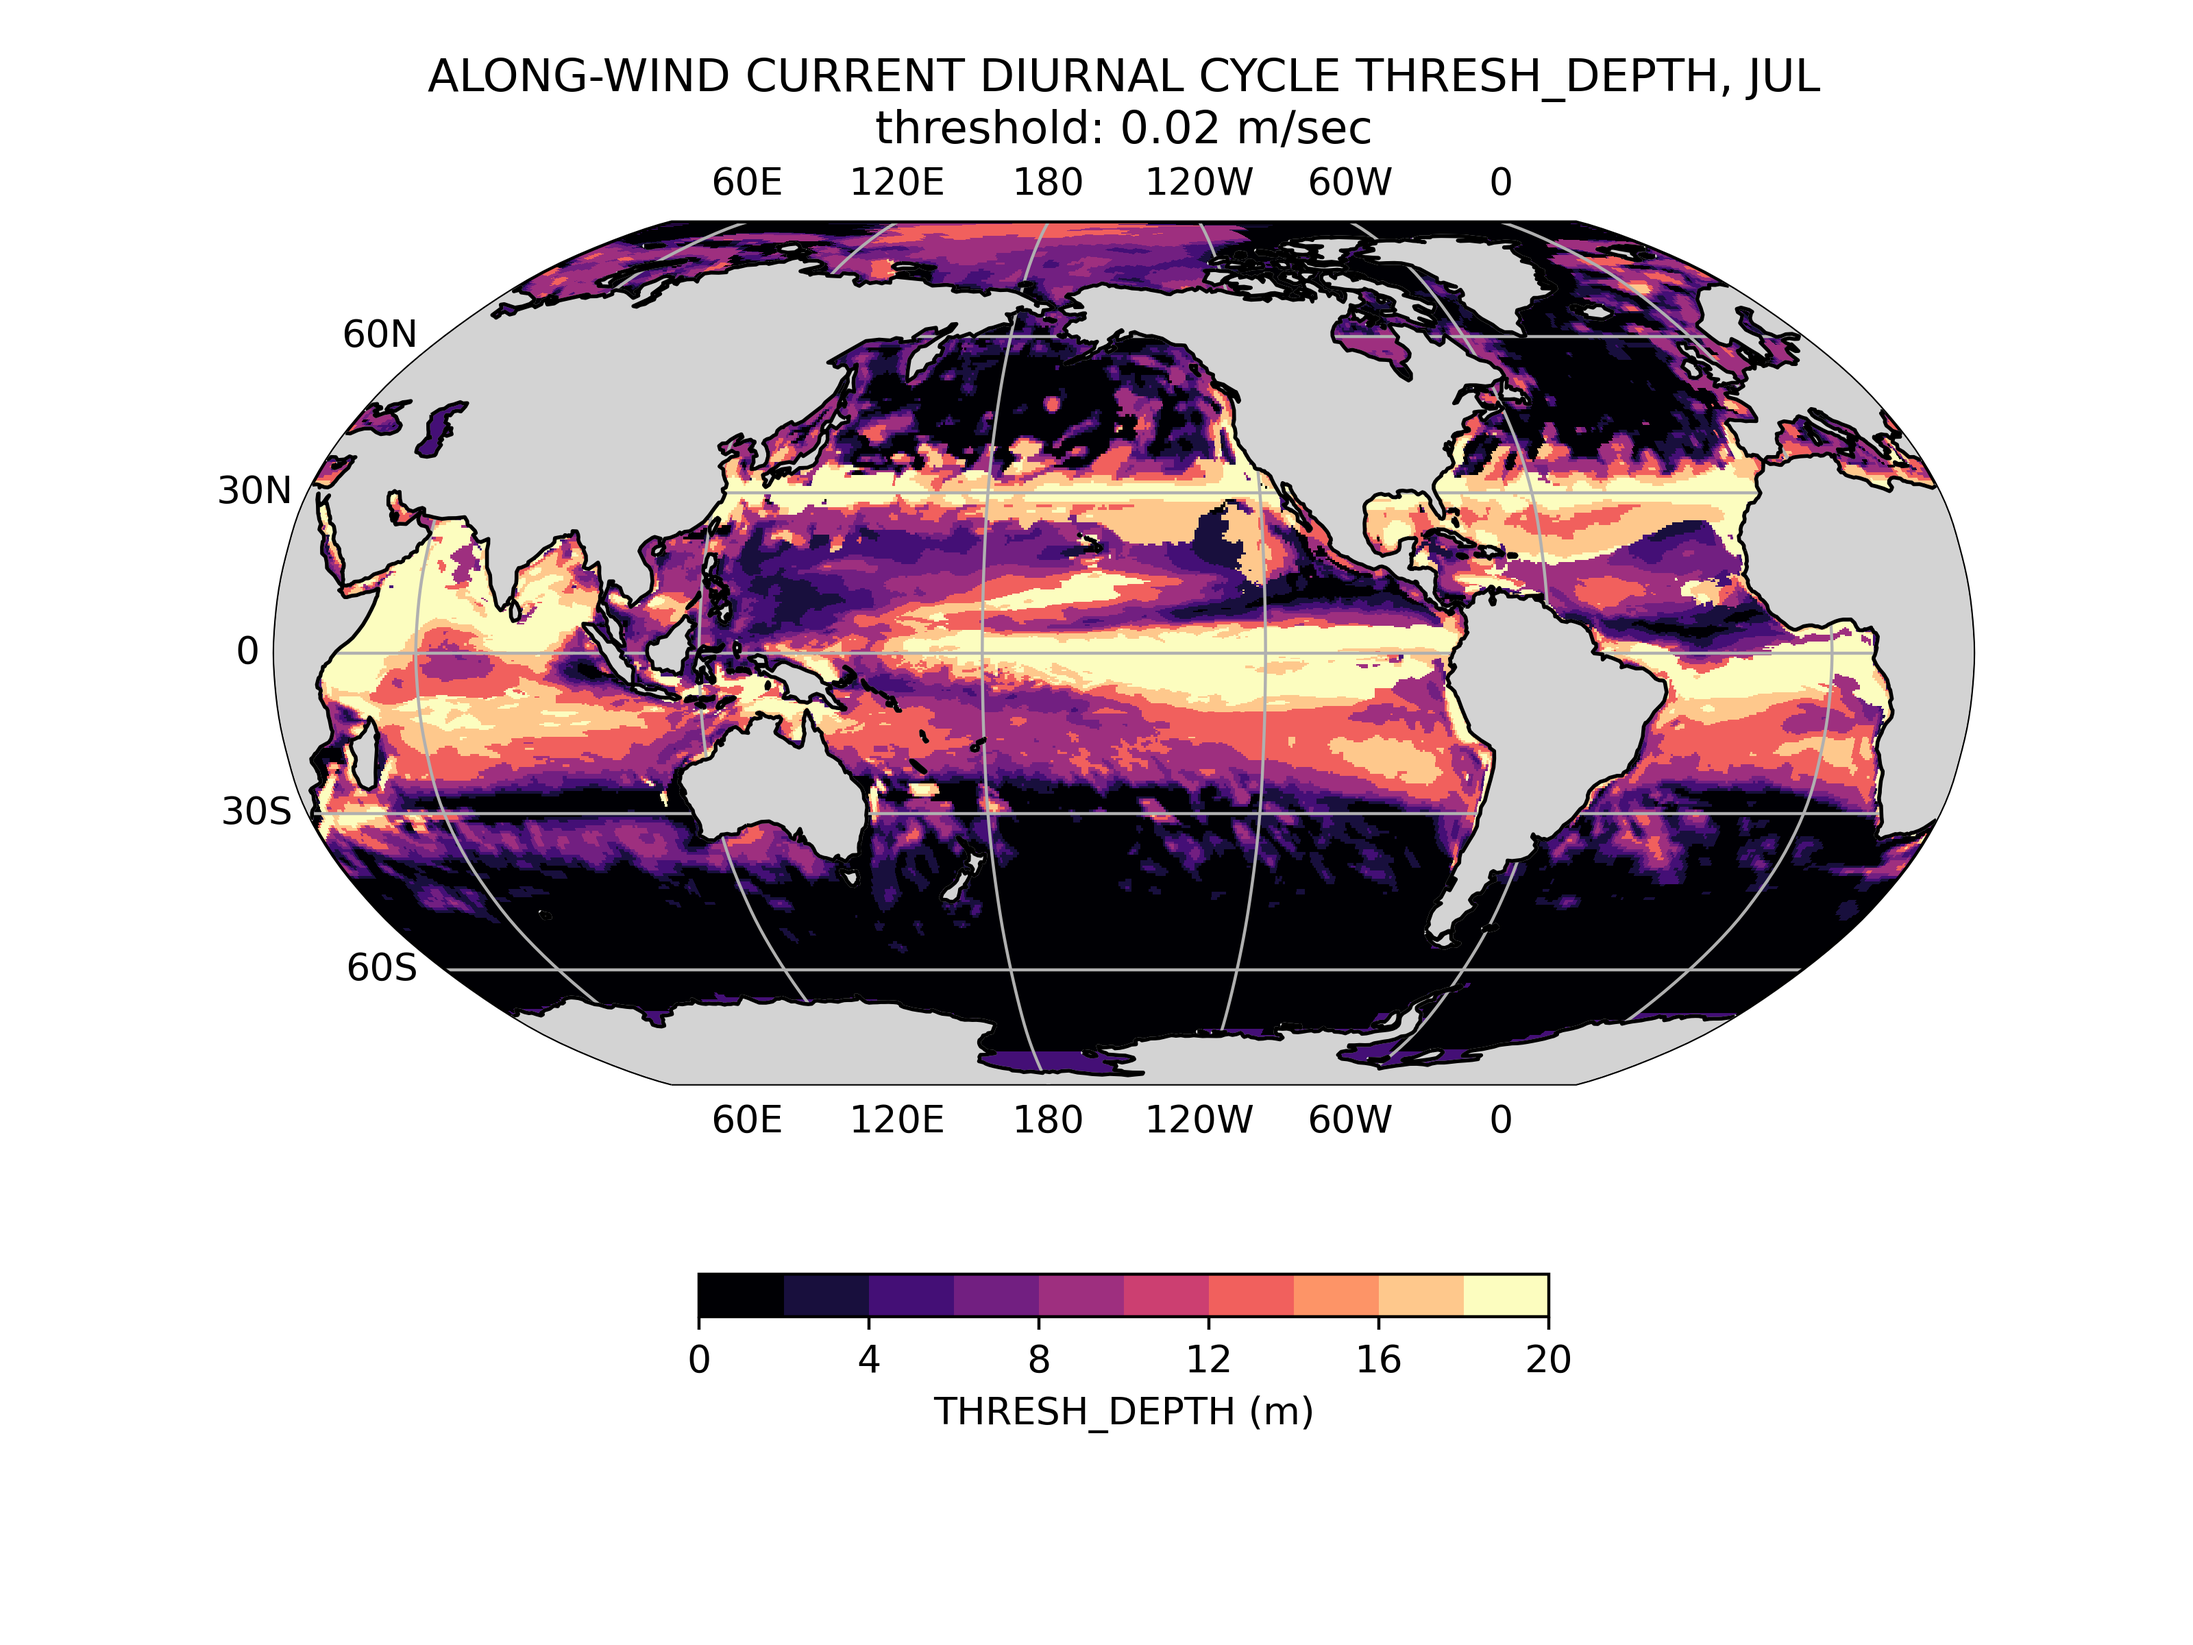
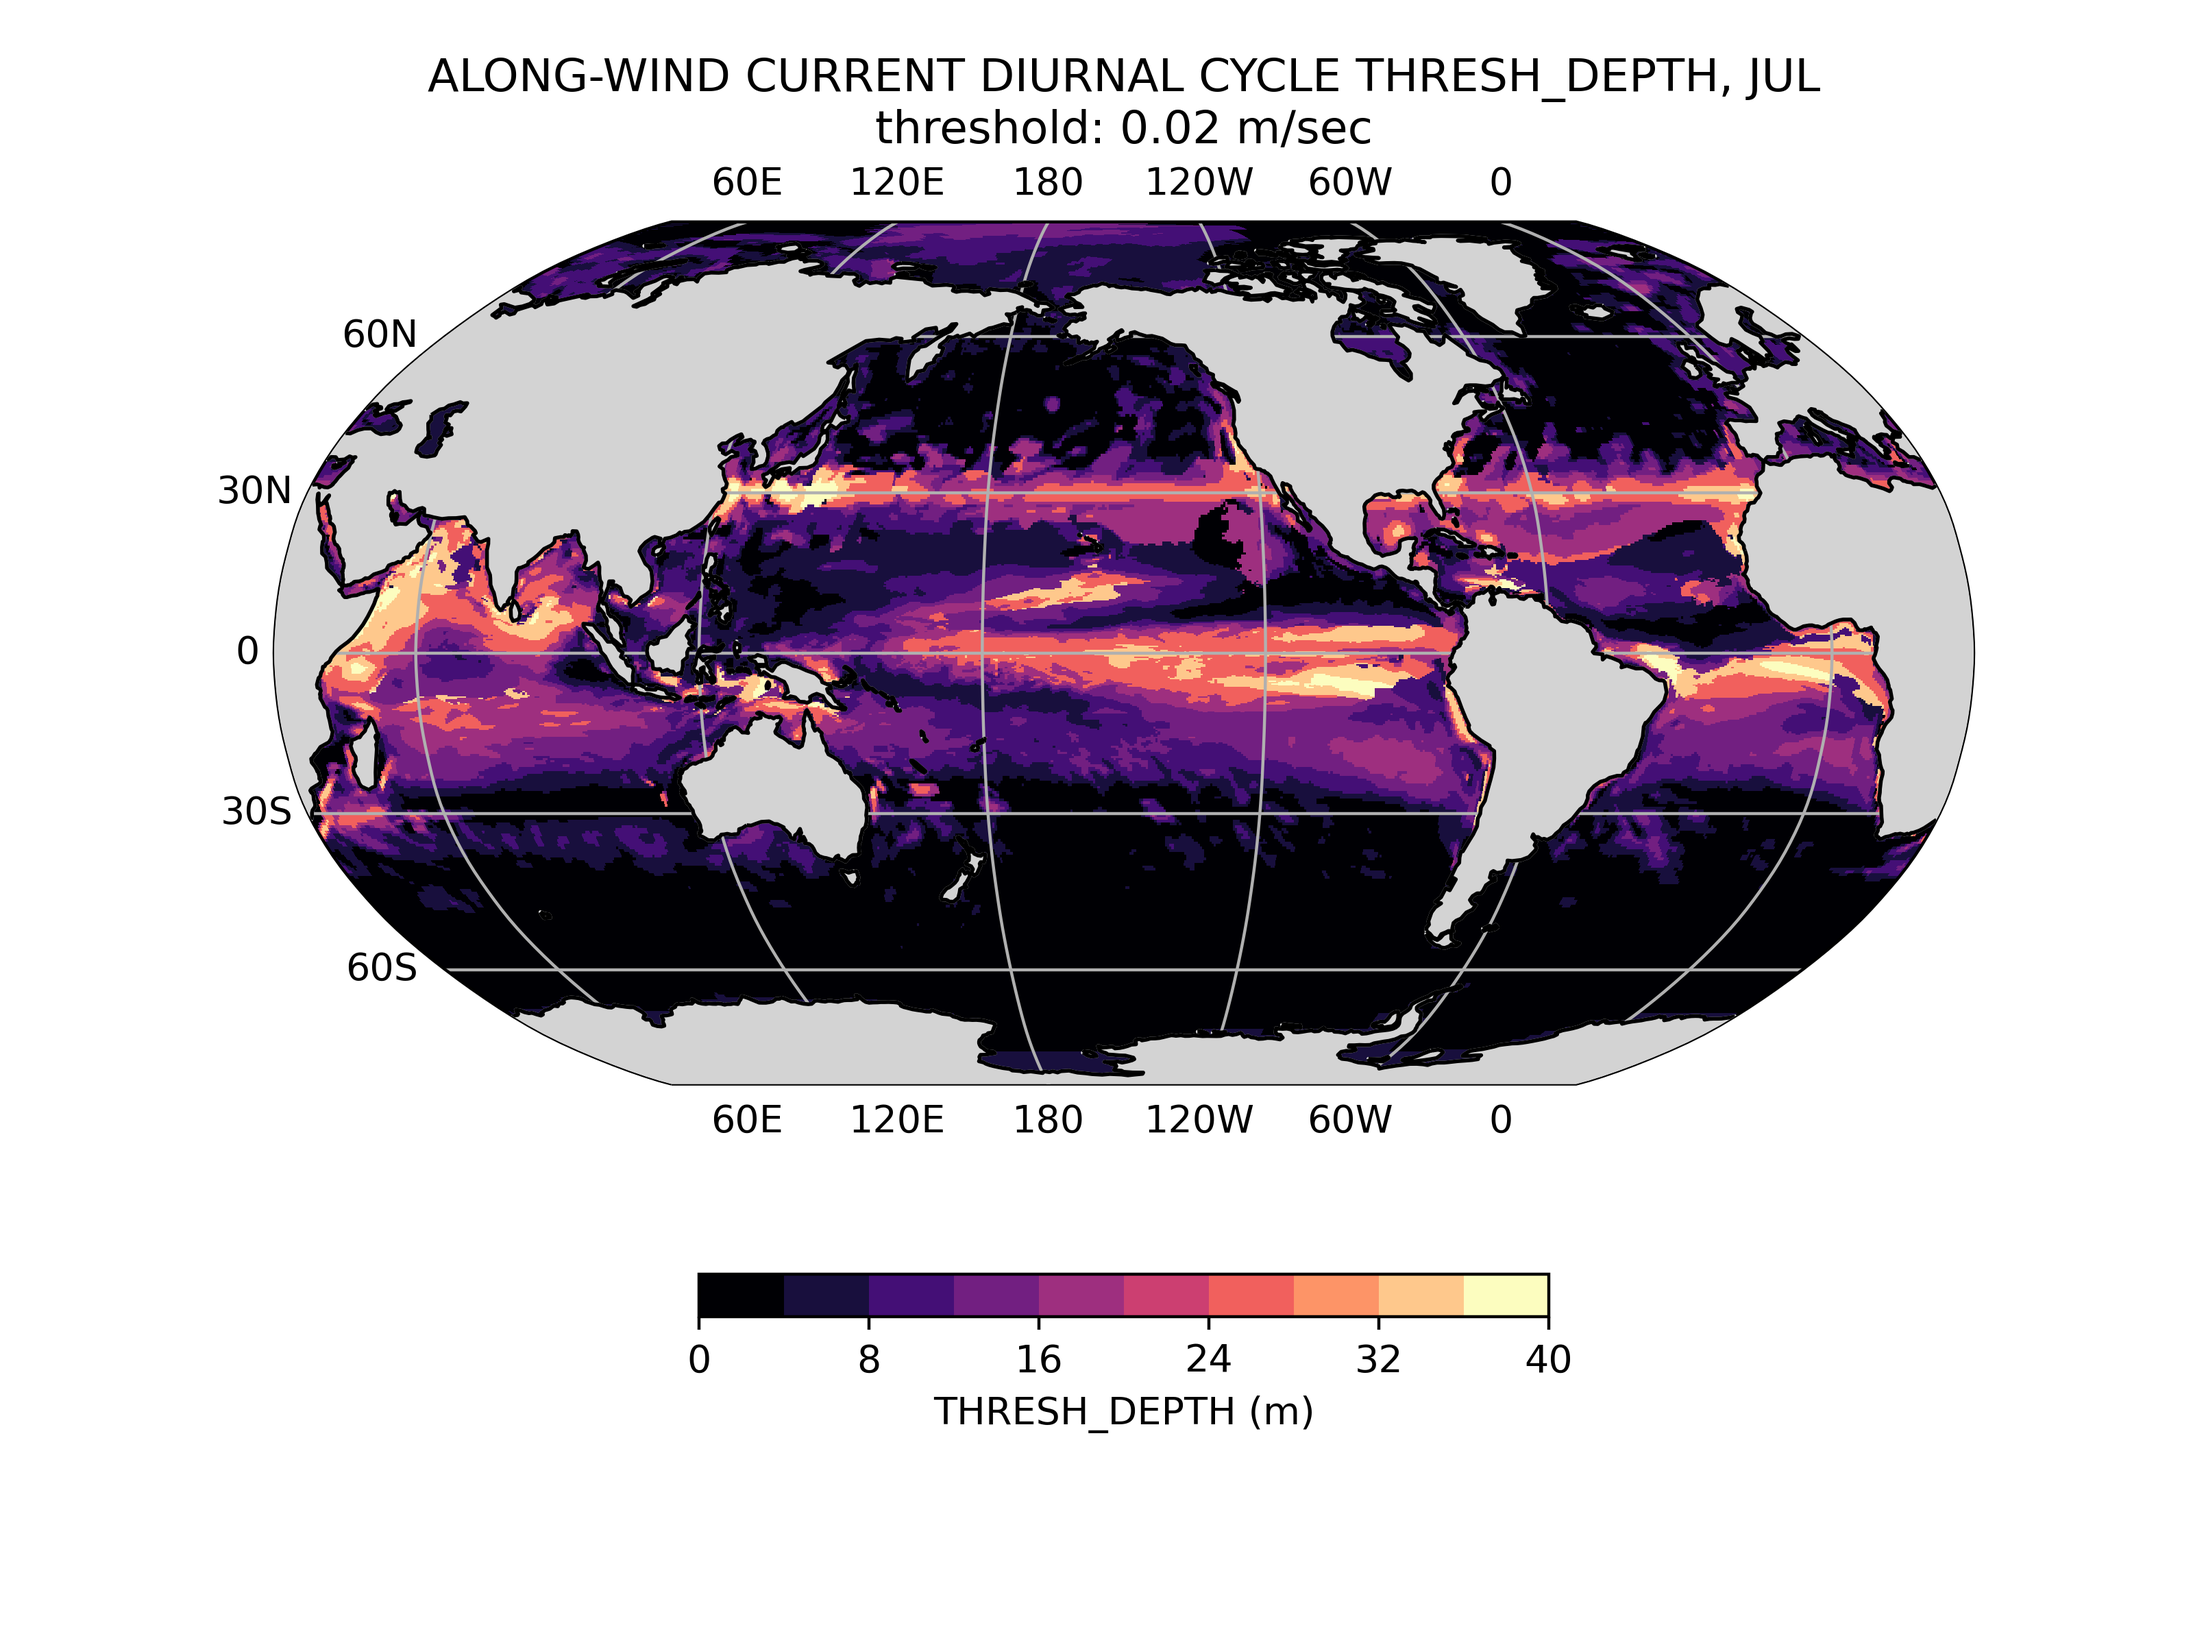
Updates current threshold-based plot colorbars.

diff --git a/diurnal_cycle/analysis/diurnal_range_maps.py b/diurnal_cycle/analysis/diurnal_range_maps.py
@@ -462,13 +462,13 @@ def plot_dets(vn, att, pty=None):
             'cmapPHASE_DELAY':'magma',
             'unitsPHASE_DELAY':'hours',
             'minTHRESH_DEPTH':0.0,
-            'maxTHRESH_DEPTH':20.0,
-            'stepTHRESH_DEPTH':2.0,
+            'maxTHRESH_DEPTH':40.0,
+            'stepTHRESH_DEPTH':4.0,
             'cmapTHRESH_DEPTH':'magma',
             'unitsTHRESH_DEPTH':'m',
             'minTHRESH_DELAY':0.0,
-            'maxTHRESH_DELAY':6.0,
-            'stepTHRESH_DELAY':0.5,
+            'maxTHRESH_DELAY':24.0,
+            'stepTHRESH_DELAY':2.0,
             'cmapTHRESH_DELAY':'magma',
             'unitsTHRESH_DELAY':'hours'
 
